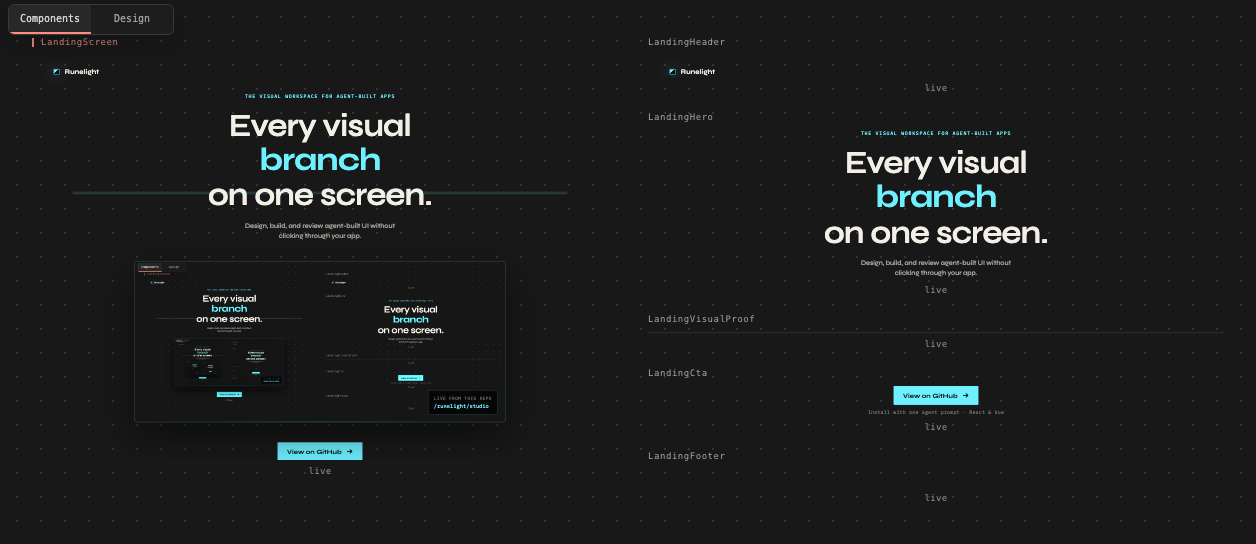
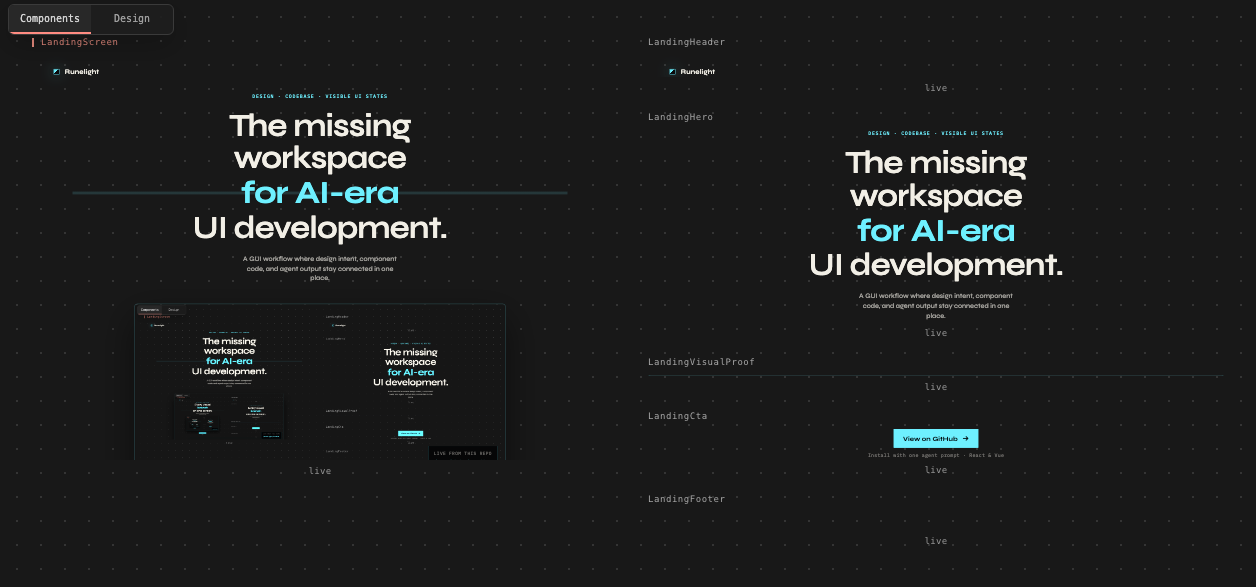
Update Runelight website and studio metadata

diff --git a/packages/studio/src/manifest.ts b/packages/studio/src/manifest.ts
@@ -51,6 +51,7 @@ export type StudioManifest = {
   version: 1
   cache?: StudioManifestCacheConfig
   design?: StudioDesignManifest
+  serveSession?: StudioManifestServeSession
   routes: StudioManifestRouteConfig
   preview: StudioManifestPreviewConfig
   files: StudioManifestFile[]
@@ -67,6 +68,11 @@ export type CreateStudioManifestOptions = {
 
 export type StudioManifestCacheConfig = {
   namespace?: string
+}
+
+export type StudioManifestServeSession = {
+  projectKey?: string
+  sessionId?: string
 }
 
 type ProjectIndexFileWithSourceHash = RunelightProjectIndex["files"][number] & {
@@ -86,10 +92,13 @@ const DEFAULT_PREVIEW: StudioManifestPreviewConfig = {
 }
 
 export function createStudioManifest(projectIndex: RunelightProjectIndex, options: CreateStudioManifestOptions = {}): StudioManifest {
+  const serveSession = serveSessionFromEnvironment()
+
   return {
     version: 1,
     ...(options.cache ? { cache: options.cache } : {}),
     ...(options.design && options.design.frames.length > 0 ? { design: options.design } : {}),
+    ...(serveSession ? { serveSession } : {}),
     routes: { ...DEFAULT_ROUTES, ...options.routes },
     preview: { ...DEFAULT_PREVIEW, ...options.preview },
     files: projectIndex.files.map((projectFile) => {
@@ -103,6 +112,17 @@ export function createStudioManifest(projectIndex: RunelightProjectIndex, option
       }
     }),
     diagnostics: [...projectIndex.diagnostics, ...(options.diagnostics ?? [])],
+  }
+}
+
+function serveSessionFromEnvironment(): StudioManifestServeSession | undefined {
+  const projectKey = process.env.RUNELIGHT_PROJECT_KEY
+  const sessionId = process.env.RUNELIGHT_SESSION_ID
+  if (!projectKey && !sessionId) return undefined
+
+  return {
+    ...(projectKey ? { projectKey } : {}),
+    ...(sessionId ? { sessionId } : {}),
   }
 }
 

diff --git a/packages/adapter-vite-react/test/transform.test.ts b/packages/adapter-vite-react/test/transform.test.ts
@@ -14,7 +14,7 @@ const runelightConfig = {
     entryRoot: "src/app/runelight",
   },
   host: {
-    command: "vite --host 127.0.0.1 --port {port}",
+    command: "vite --host 127.0.0.1 --port {port} --strictPort",
   },
 }
 
@@ -178,7 +178,7 @@ Card.frames = {
           entryRoot: "src/app/runelight",
         },
         host: {
-          command: "vite --host 127.0.0.1 --port {port}",
+          command: "vite --host 127.0.0.1 --port {port} --strictPort",
         },
       },
       root: fixtureRoot,
@@ -236,7 +236,7 @@ Card.frames = {
           entryRoot: "src/app/runelight",
         },
         host: {
-          command: "vite --host 127.0.0.1 --port {port}",
+          command: "vite --host 127.0.0.1 --port {port} --strictPort",
         },
       },
       root: fixtureRoot,
@@ -264,7 +264,7 @@ Card.frames = {
           entryRoot: "app/runelight",
         },
         host: {
-          command: "vite --host 127.0.0.1 --port {port}",
+          command: "vite --host 127.0.0.1 --port {port} --strictPort",
         },
       },
       root: fixtureRoot,
@@ -295,7 +295,7 @@ export default defineRunelightConfig({
     entryRoot: "app/runelight",
   },
   host: {
-    command: "vite --host 127.0.0.1 --port {port}",
+    command: "vite --host 127.0.0.1 --port {port} --strictPort",
   },
 })
 `,
@@ -322,7 +322,7 @@ export default defineRunelightConfig({
           entryRoot: "app/runelight",
         },
         host: {
-          command: "vite --host 127.0.0.1 --port {port}",
+          command: "vite --host 127.0.0.1 --port {port} --strictPort",
         },
       },
       root: fixtureRoot,

diff --git a/apps/website/src/content/site-content.ts b/apps/website/src/content/site-content.ts
@@ -1,6 +1,7 @@
 export type SiteContent = {
   productName: string
   githubUrl: string
+  kicker: string
   headline: {
     lead: string
     emphasis: string
@@ -23,10 +24,11 @@ export type SiteContent = {
 export const siteContent = {
   productName: "Runelight",
   githubUrl: "https://github.com/tuoxiansp/runelight",
+  kicker: "Design · Codebase · Visible UI States",
   headline: {
-    lead: "Every visual",
-    emphasis: "branch",
-    tail: "on one screen.",
+    lead: "The missing workspace",
+    emphasis: "for AI-era",
+    tail: "UI development.",
   },
   story: {
     steps: [
@@ -34,7 +36,8 @@ export const siteContent = {
       { label: "typed frames", detail: "Auth, empty, admin — named branches, type-checked." },
       { label: "/runelight/studio", detail: "Every component, every state — rendered at once." },
     ],
-    payoff: "Design, build, and review agent-built UI without clicking through your app.",
+    payoff:
+      "A GUI workflow where design intent, component code, and agent output stay connected in one place.",
   },
   cta: {
     label: "View on GitHub",

diff --git a/packages/studio/test/studio-manifest.test.ts b/packages/studio/test/studio-manifest.test.ts
@@ -157,7 +157,7 @@ describe("Runelight Studio manifest", () => {
           namespace: "fixture-project",
         },
         host: {
-          command: "vite --host 127.0.0.1 --port {port}",
+          command: "vite --host 127.0.0.1 --port {port} --strictPort",
         },
         studio: {
           manifestCacheTtlMs: 60_000,
@@ -309,7 +309,7 @@ describe("Runelight Studio manifest", () => {
       })
       const manifest = createStudioManifestFromRunelightConfig(projectIndex, {
         project: { sourceRoot: "src", entryRoot: "src/app/runelight" },
-        host: { command: "vite --host 127.0.0.1 --port {port}" },
+        host: { command: "vite --host 127.0.0.1 --port {port} --strictPort" },
       })
 
       expect(manifest.design?.frames.map((frame) => frame.id)).toEqual(["src/app/runelight/design/checkout-flow.g.tsx#default:live"])

diff --git a/packages/core/test/script-adapter.test.ts b/packages/core/test/script-adapter.test.ts
@@ -41,6 +41,10 @@ describe("Runelight preview commands", () => {
         action: "ready-check",
         path: "/runelight/studio",
       },
+      {
+        action: "ready-check",
+        path: "/runelight/studio/manifest",
+      },
     ])
   })
 
@@ -73,6 +77,10 @@ describe("Runelight preview commands", () => {
       {
         action: "ready-check",
         path: "/runelight/studio",
+      },
+      {
+        action: "ready-check",
+        path: "/runelight/studio/manifest",
       },
     ])
   })

diff --git a/apps/website/vite.config.ts b/apps/website/vite.config.ts
@@ -2,8 +2,6 @@ import { runelightViteReact } from "@runelight/adapter-vite-react"
 import react from "@vitejs/plugin-react"
 import { defineConfig } from "vite"
 
-import runelightConfig from "./runelight.config"
-
 export default defineConfig({
   server: {
     host: "127.0.0.1",
@@ -13,5 +11,5 @@ export default defineConfig({
   optimizeDeps: {
     exclude: ["@runelight/core"],
   },
-  plugins: [runelightViteReact({ config: runelightConfig }), react()],
+  plugins: [runelightViteReact(), react()],
 })

diff --git a/apps/website/src/app/LandingScreen.g.tsx b/apps/website/src/app/LandingScreen.g.tsx
@@ -53,7 +53,7 @@ LandingHeader.frames = {
 export function LandingHero() {
   return (
     <section className="landing-hero">
-      <p className="landing-kicker">The visual workspace for agent-built apps</p>
+      <p className="landing-kicker">{siteContent.kicker}</p>
       <h1 className="landing-headline">
         <span>{siteContent.headline.lead}</span>
         <span className="landing-headline-emphasis">{siteContent.headline.emphasis}</span>

diff --git a/packages/core/src/init.ts b/packages/core/src/init.ts
@@ -74,7 +74,7 @@ export default defineRunelightConfig({
     namespace: "my-project",
   },
   host: {
-    command: "vite --host 127.0.0.1 --port {port}",
+    command: "vite --host 127.0.0.1 --port {port} --strictPort",
   },
   studio: {
     manifestCacheTtlMs: 1000,

diff --git a/examples/vue-vite/runelight.config.ts b/examples/vue-vite/runelight.config.ts
@@ -7,6 +7,6 @@ export default defineRunelightConfig({
     namespace: "runelight-examples-vue-vite",
   },
   host: {
-    command: "pnpm exec vite --host 127.0.0.1 --port {port}",
+    command: "pnpm exec vite --host 127.0.0.1 --port {port} --strictPort",
   },
 })

diff --git a/examples/react-vite/runelight.config.ts b/examples/react-vite/runelight.config.ts
@@ -7,6 +7,6 @@ export default defineRunelightConfig({
     namespace: "runelight-examples",
   },
   host: {
-    command: "pnpm exec vite --host 127.0.0.1 --port {port}",
+    command: "pnpm exec vite --host 127.0.0.1 --port {port} --strictPort",
   },
 })

diff --git a/apps/website/runelight.config.ts b/apps/website/runelight.config.ts
@@ -7,6 +7,6 @@ export default defineRunelightConfig({
     namespace: "runelight-website",
   },
   host: {
-    command: "pnpm exec vite --host 127.0.0.1 --port {port}",
+    command: "pnpm exec vite --host 127.0.0.1 --port {port} --strictPort",
   },
 })

diff --git a/packages/studio/runelight.config.ts b/packages/studio/runelight.config.ts
@@ -7,6 +7,6 @@ export default defineRunelightConfig({
     namespace: "runelight-studio",
   },
   host: {
-    command: "pnpm exec vite --host 127.0.0.1 --port {port}",
+    command: "pnpm exec vite --host 127.0.0.1 --port {port} --strictPort",
   },
 })
